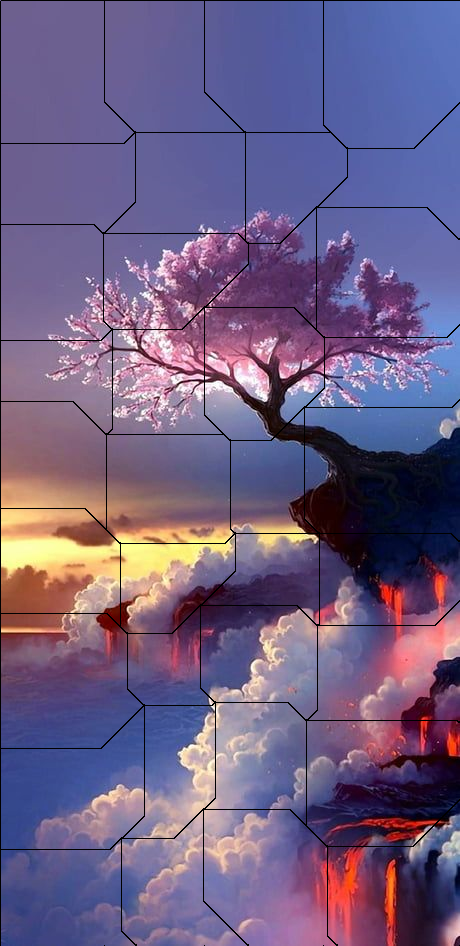
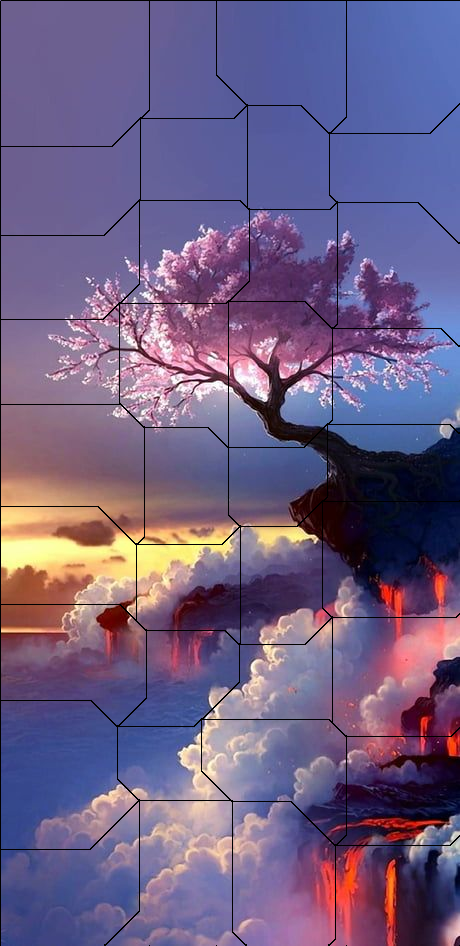
progress on save_frags

diff --git a/__create_fragments.py b/__create_fragments.py
@@ -17,22 +17,79 @@ def create_fragments(folder):
     fresque = open_file(folder + "fresque.png")
     fresque = fragment_file(fresque, 100)
     save_file(fresque, folder + "fresque_fragmentee.png")
-    save_fragments(fresque, folder)
+    fresque = save_fragments(fresque, folder)
+    save_file(fresque, folder + "fresque_videe.png")
     return
+
+
+
+
+
 
 
 def save_fragments(F, folder):
     h,w = dimensions(F)
     done = False
     while(not(done)):
-        visited = np.zeros((1,2))
-        neighbours = np.zeros((1,2))
-        ### Get starting pixel
-        done = True
-        # TODO Implement A* type algorithm to retrieve all pixels in zones
-        # np.append (visited, [a,b])
+        start = [-1,-1]
+        for x in range(w):
+            for y in range(h):
+                if (F[y,x].any()):
+                    start = [x,y]
+        if (start[0] == -1):
+            done = True
+        else:
+            save_single_fragment(F, start[0], start[1])
+            done = True #DELETE THIS LINE LATER
+    return F
+       
+def save_single_fragment(F, startx, starty):
+    h,w = dimensions(F)
+    visit = np.zeros((2))
+    visit[0] = startx
+    visit[1] = starty
+    idx = 0
+    count = 0
+    done = False
+    while(not(done)):
+        ### Treat visit[idx]
+        currentx = int(visit[idx + 0])
+        currenty = int(visit[idx + 1])
+        print("current pixel : ", [currentx, currenty])
+        count = count + 1
+        pixel_set(F, currentx, currenty, 0,0,0)
+        ### Check neighbours of visit[idx]
+        for x in range(-1, 2, 1):
+            for y in range(-1, 2, 1):
+                newx = int(currentx+x)
+                newy = int(currenty+y)
+                if ((newx < w) & (newx >= 0)):
+                    if ((newy < h) & (newy >= 0)):
+                        #print("    looking at : ", [newx, newy])
+                        tmp = F[newy, newx]
+                        #print(tmp)
+                        if ((tmp[0] != 0) or (tmp[1] != 0) or (tmp[2] != 0)):
+                            #print("yes")
+                            visit = np.append(visit, [newx, newy])
+                            #visit = np.concatenate((visit, newx))
+                            #visit = np.concatenate((visit, newy))
+                            #visit = np.insert(visit, len(visit)-1, [newx, newy])
+                            #value = np.zeros_like(visit[0])
+                            #value[0] = newx
+                            #value[1] = newy
+                            #visit = np.vstack((visit, value))
+                            #print("ok !")
+        #print(visit)
+        idx = idx + 2
+        #print(idx)
+        if (len(visit) == idx*2):
+            done = True
+    print("Changed " + str(count) + " pixels")
+        
 
 
+    # TODO Implement A* type algorithm to retrieve all pixels in zones
+    # np.append (visited, [a,b])
 
 # Lines to cut in fragments
 def fragment_file(F, fragment_size):

diff --git a/__Toutes_les_fresques.py b/__Toutes_les_fresques.py
@@ -14,3 +14,4 @@ for folder in os.listdir(root_dir):
     path = root_dir + str(folder) + "/"
     print(path)
     create_fragments(path)
+    break
